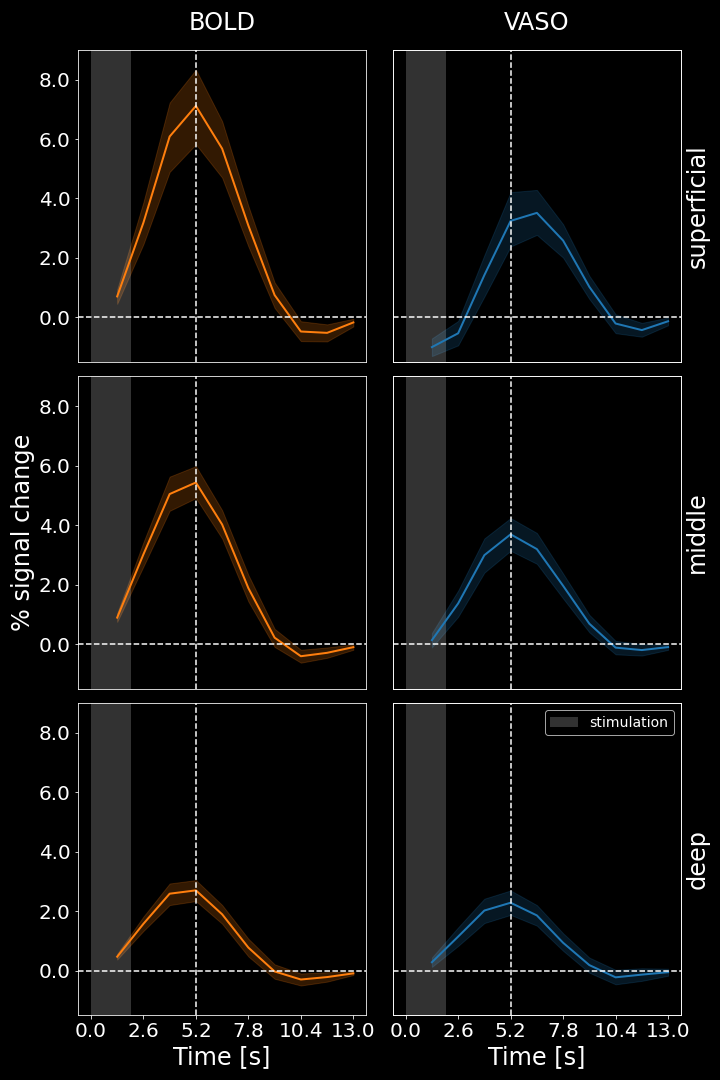
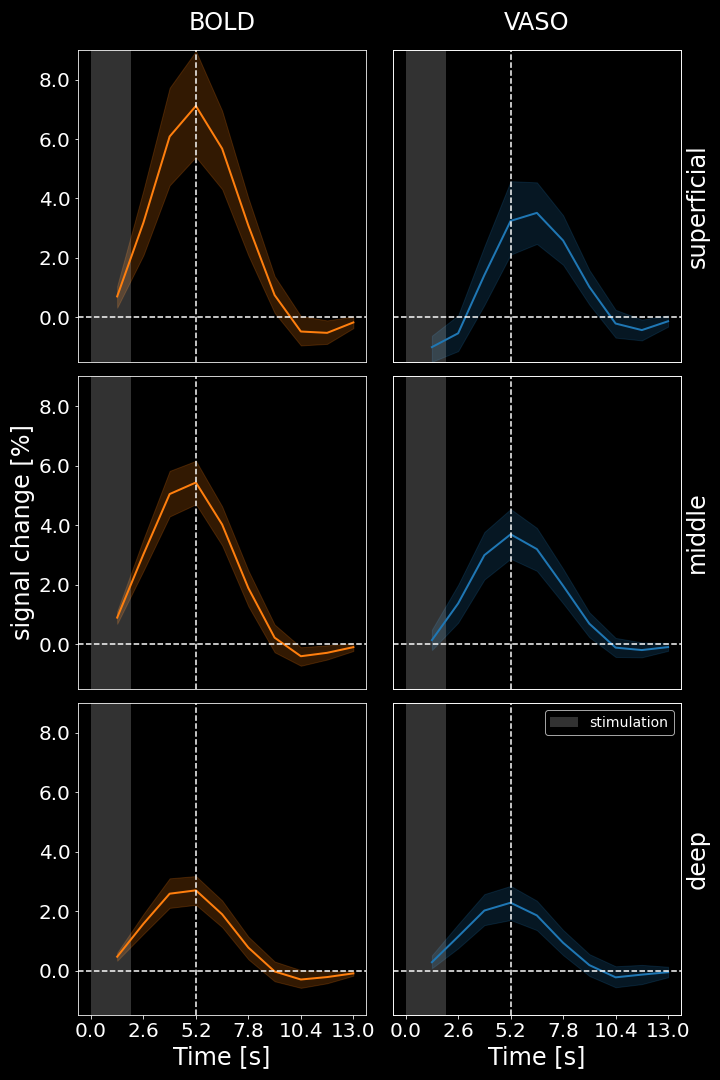
compute baseline for blocks on rest-period only

diff --git a/code/extractBlockTimecourses.py b/code/extractBlockTimecourses.py
@@ -83,6 +83,8 @@ for focus in ['v1']:
                     # load the nifty-header to get some meta-data.
                     header = Nii.header
 
+                    nrVols = data.shape[-1]
+
                     # As the number of volumes which is the 4th position of
                     # get_shape. This seems to be unused so I will comment it out to check.
                     # nr_volumes = int(header.get_data_shape()[3])
@@ -98,6 +100,33 @@ for focus in ['v1']:
                     # Load information on run-wise motion
                     FDs = pd.read_csv(f'{root}/derivatives/{sub}/{ses}/motionParameters/{base}_FDs.csv')
 
+                    # compute baseline with non-stimulated periods
+                    bl = []
+                    restOnset = 0
+
+                    for i, row in events.iterrows():
+                        trialOnset = round(row['start'])
+
+                        # print(f'rest start: {restOnset}')
+                        # print(f"rest end: {trialOnset}")
+
+
+                        bl.append(data[:, :, :, int(round(restOnset/tr)):int(round(trialOnset/tr))][mask.astype(bool)])
+
+                        restOnset = trialOnset+row['duration']
+
+                    if int(round(restOnset/tr))<nrVols:
+                        bl.append(data[:, :, :, int(round(restOnset/tr)):int(round(nrVols))][mask.astype(bool)])
+
+
+                    means = []
+                    for arr in bl:
+                        means.append(np.mean(arr))
+                    mean = sum(means) / len(means)
+
+
+
+
                     for i, row in events.iterrows():
 
                         onset = round(row['start']/tr)
@@ -111,14 +140,14 @@ for focus in ['v1']:
                         # Because we want the % signal-change, we need the mean
                         # of the voxel we are looking at. This is done with
                         # some fancy matrix operations.
-                        mask_mean = np.mean(data[:, :, :]
-                                            [mask.astype(bool)])
+                        # mask_mean = np.mean(data[:, :, :]
+                        #                     [mask.astype(bool)])
 
                         # truncate motion data to event
                         tmp = FDs.loc[(FDs['volume']>=(onset-2)/2)&(FDs['volume']<=(offset+2)/2)]
 
                         if not (tmp['FD']>=2).any():
-                            blockResults[focus][sub][base][modality][f'trial {i}'] = np.mean((((data[:, :, :, int(onset-4):int(offset+ 8)][mask.astype(bool)]) / mask_mean)- 1) * 100,axis=0)
+                            blockResults[focus][sub][base][modality][f'trial {i}'] = np.mean((((data[:, :, :, int(onset-4):int(offset+ 8)][mask.astype(bool)]) / mean)- 1) * 100,axis=0)
 
 
 subList = []
@@ -210,11 +239,14 @@ for focus in ['v1','s1']:
     plt.ylabel('signal change [%]', fontsize=24)
     plt.xlabel('Time [s]', fontsize=24)
     # plt.title(f"Group Response Timecourse", fontsize=24, pad=20)
-    plt.legend(loc='lower center', fontsize=14)
+    # plt.legend(loc='lower center', fontsize=14)
+    plt.legend().remove()
 
 
     values = (np.arange(-4,len(blockData['x'].unique())-4,4)*tr).round().astype(int)
     spacing = np.arange(0,len(blockData['x'].unique()),4)
+
+    # ax.axhline(0,linestyle='--',color='white',alpha=0.5)
 
     plt.xticks(spacing,values, fontsize=18)
     plt.yticks(fontsize=18)

diff --git a/code/blockResultsFigure.py b/code/blockResultsFigure.py
@@ -8,7 +8,7 @@ from scipy.interpolate import interp1d
 import os
 
 subs = ['sub-05','sub-06','sub-07','sub-08','sub-09','sub-11','sub-12','sub-13','sub-14']
-subs = ['sub-05']
+# subs = ['sub-05']
 
 
 root = '/media/sebastian/Data/EVENTRELATED_PILOT/rawData/Nifti'
@@ -82,6 +82,7 @@ for focus in ['v1']:
                     data = Nii.get_fdata()[:,:,:,:-2]
                     # load the nifty-header to get some meta-data.
                     header = Nii.header
+                    nrVols = data.shape[-1]
 
                     # As the number of volumes which is the 4th position of
                     # get_shape. This seems to be unused so I will comment it out to check.
@@ -95,8 +96,33 @@ for focus in ['v1']:
 
                     events = pd.read_csv(f'{root}/derivatives/{sub}/{ses}/events/{base}.txt', sep = ' ', names = ['start','duration','trialType'])
 
+
                     # Load information on run-wise motion
                     FDs = pd.read_csv(f'{root}/derivatives/{sub}/{ses}/motionParameters/{base}_FDs.csv')
+                    # compute baseline with non-stimulated periods
+                    bl = []
+                    restOnset = 0
+
+                    for i, row in events.iterrows():
+                        trialOnset = round(row['start'])
+
+                        # print(f'rest start: {restOnset}')
+                        # print(f"rest end: {trialOnset}")
+
+
+                        bl.append(data[:, :, :, int(round(restOnset/tr)):int(round(trialOnset/tr))][mask.astype(bool)])
+
+                        restOnset = trialOnset+row['duration']
+
+                    if int(round(restOnset/tr))<nrVols:
+                        bl.append(data[:, :, :, int(round(restOnset/tr)):int(round(nrVols))][mask.astype(bool)])
+
+
+                    means = []
+                    for arr in bl:
+                        means.append(np.mean(arr))
+                    mean = sum(means) / len(means)
+
 
                     for i, row in events.iterrows():
 
@@ -118,7 +144,7 @@ for focus in ['v1']:
                         tmp = FDs.loc[(FDs['volume']>=(onset-2)/2)&(FDs['volume']<=(offset+2)/2)]
 
                         if not (tmp['FD']>=2).any():
-                            blockResults[focus][sub][base][modality][f'trial {i}'] = np.mean((((data[:, :, :, int(onset-4):int(offset+ 8)][mask.astype(bool)]) / mask_mean)- 1) * 100,axis=0)
+                            blockResults[focus][sub][base][modality][f'trial {i}'] = np.mean((((data[:, :, :, int(onset-4):int(offset+ 8)][mask.astype(bool)]) / mean)- 1) * 100,axis=0)
 
 
 subList = []
@@ -354,9 +380,11 @@ for focus in ['v1']:
     ax2.tick_params(axis='y', labelsize=18)
 
     ax2.legend().remove()
+    ax1.legend().remove()
 
     fig.tight_layout()
 
+    ax1.axhline(0,linestyle='--',color='white')
 
     # lines = []
     # labels = []

diff --git a/code/extractEventTimecourses.py b/code/extractEventTimecourses.py
@@ -792,22 +792,36 @@ for focus, cmap in zip(['v1','s1'],palettes):
 
     fig, ax  = plt.subplots()
     sns.lineplot(data=FIRdata.loc[FIRdata['focus']==focus], x="volume", y="data", hue='modality',palette=cmap)
-    plt.title('Group Finite Impulse Response', fontsize=24, pad=20)
-    plt.ylabel(r'% signal change', fontsize=24)
+    plt.title('', fontsize=24, pad=20)
+    plt.ylabel(r'signal change [%]', fontsize=24)
     yLimits = ax.get_ylim()
 
     plt.ylim(0,yLimits[1])
     plt.yticks(range(-1,int(yLimits[1])+1),fontsize=16)
 
+    # ticks = range(0,11)
+    # labels = (np.arange(0,11)*1.3).round(decimals=1)
     ticks = range(0,11)
     labels = (np.arange(0,11)*1.3).round(decimals=1)
+    for k,label in enumerate(labels):
+        if (label - int(label) == 0):
+            labels[k] = int(label)
 
-    plt.xticks(ticks, labels, fontsize=16, rotation=45)
-    plt.xlabel('Time (s)', fontsize=24)
+    ## reduce input
+
+
+    # plt.xticks(ticks, labels, fontsize=16, rotation=45)
+    ax.set_xticks(ticks[::2])
+    ax.set_xticklabels(labels[::2],fontsize=16)
+
+
+    plt.xlabel('Time [s]', fontsize=24)
 
     plt.axvspan(0, 2/1.3, color='#e5e5e5', alpha=0.2, lw=0, label = 'stimulation on')
-    plt.legend(loc='upper right', fontsize=13)
-    plt.savefig(f'{root}/Group_{focus}_FIR.png', bbox_inches = "tight")
+    ax.axhline(0,linestyle='--',color='white')
+
+    plt.legend(loc='upper right', fontsize=13).remove()
+    plt.savefig(f'../results/Group_{focus}_FIR_manuscript.png', bbox_inches = "tight")
 
     plt.show()
 
@@ -876,7 +890,7 @@ for j in range(3):
 
 
 # show ylabel for middle row only
-axes[1,0].set_ylabel('% signal change', fontsize=24)
+axes[1,0].set_ylabel('signal change [%]', fontsize=24)
 
 # remove x ticks and labels except for lowest row
 for j in range(2):
@@ -891,7 +905,7 @@ axes[-1,-1].legend(fontsize=14)
 plt.tight_layout()
 plt.savefig('../results/layersInPanels.png')
 plt.show()
-\
+
 
 
 

diff --git a/code/shortVsLongTR.py b/code/shortVsLongTR.py
@@ -9,6 +9,7 @@ import matplotlib.pyplot as plt
 from scipy import stats
 from pingouin import mwu
 
+root = f'/media/sebastian/Data/EVENTRELATED_PILOT/rawData/Nifti'
 
 # compare tSNR for long vs short TR
 subs = ['sub-09','sub-11']
@@ -282,4 +283,41 @@ plt.savefig(f'../results/profiles_longVsShort.jpg',bbox_inches='tight')
 
 
 
-                 
+palette = {
+    'blockStimLongTR': '#8DD3C7',
+    'blockStim': '#FFFFB3'}
+
+# Plotting everything together
+fig, axs = plt.subplots(2,2, figsize=(10,10))
+
+for i, modality in enumerate(['BOLD','VASO']):
+    sns.kdeplot(ax=axs[i,0],data=tSNRdata.loc[tSNRdata['modality']==modality],x='tSNR',hue='TRlength',linewidth=2, palette=palette)
+    axs[i,0].set_yticks([])
+    axs[i,0].set_ylabel('voxel count',fontsize=20)
+    axs[i,0].set_xlim(0,45)
+    axs[i,0].legend().remove()
+# adapt x-axis
+axs[0,0].set_xticks([])
+axs[0,0].set_xlabel('')
+axs[1,0].set_xlabel('tSNR',fontsize=20)
+axs[1,0].tick_params(axis='x', labelsize=18)
+axs[1,0].set_xticks(range(0,46,5))
+
+
+for i, modality in enumerate(['BOLD','VASO']):
+    sns.lineplot(ax=axs[i,1],data=zscores.loc[zscores['modality']==modality],x='layer',y='data',hue='stimType',linewidth=2, palette=palette)
+    axs[i,1].set_xticks([])
+    axs[i,1].set_ylabel('z-score',fontsize=20)
+    axs[i,1].tick_params(axis='y', labelsize=18)
+    axs[i,1].legend().remove()
+
+axs[0,1].set_yticks(range(0,13,2))
+axs[1,1].set_yticks(range(0,7,2))
+
+
+# adapt x-axis
+axs[0,1].set_xlabel('')
+axs[1,1].set_xlabel('WM                                     CSF',fontsize=20)
+plt.tight_layout()
+plt.savefig(f'../results/v1longVsShort.jpg',bbox_inches='tight')
+plt.show()
